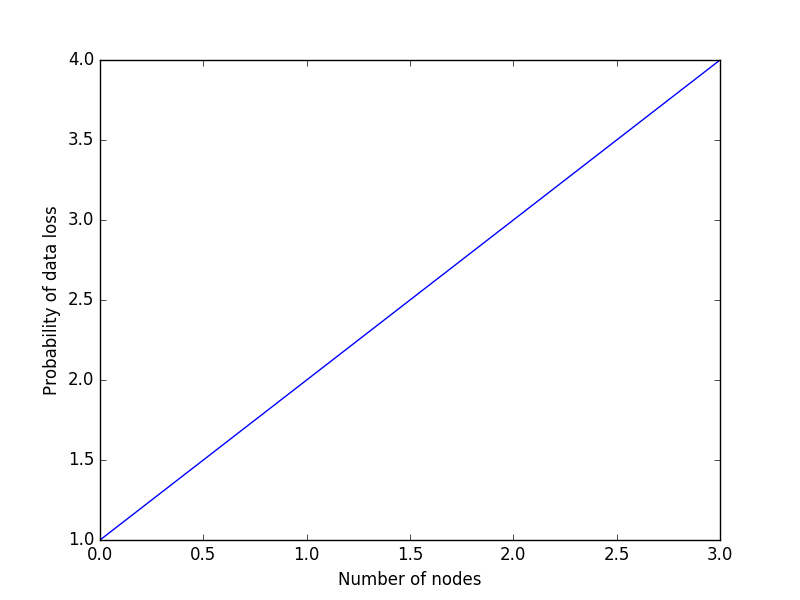
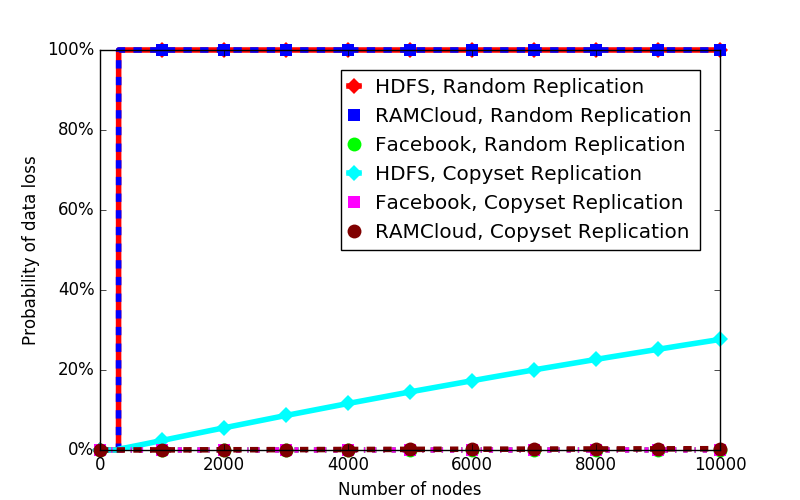
Added matplotlib figure generation code

diff --git a/Main.py b/Main.py
@@ -22,24 +22,27 @@ def runFigure6Experiment(rf=3, maxNodes=10000):
       Ramcloud.RamcloudRandomScheme(**replicationKwargs),
       Facebook.FacebookRandomScheme(**replicationKwargs),
       Hdfs.HdfsCopysetScheme(**replicationKwargs),
-      Ramcloud.RamcloudCopysetScheme(**replicationKwargs),
       Facebook.FacebookCopysetScheme(**replicationKwargs),
+      Ramcloud.RamcloudCopysetScheme(**replicationKwargs),
    ]
    data = {}
    for scheme in replicationSchemes:
       results = []
+      for numNodes in range(minNodes):
+         # add initial (0, 0) datapoints below minimum number of nodes
+         results.append((0, 0))
       for numNodes in range(minNodes, maxNodes + 1):
          results.append((numNodes, scheme.probabilityOfDataLoss(numNodes)))
       data[type(scheme).__name__] = results
 
    # generate the figure
-   schemeNames = [(type(scheme).__name__, scheme.name())
-                  for scheme in replicationSchemes]
+   schemePlotInfos = [(type(scheme).__name__, scheme.plotInfo())
+                       for scheme in replicationSchemes]
 
-   generateDiagram(schemeNames, data)
-   generateFigure6(schemeNames, data)
+   generateDiagram(schemePlotInfos, data)
+   generateFigure6(schemePlotInfos, data)
 
-def generateDiagram(schemeNames, data, groupSize=None):
+def generateDiagram(schemePlotInfos, data, groupSize=None):
    if groupSize is None:
       groupSize = GROUP_SIZE
    def outputDataPoints(dataPoints):
@@ -53,7 +56,8 @@ def generateDiagram(schemeNames, data, groupSize=None):
              (firstN, lastN, avg, std))
 
    # print average probabilities for groups of data points
-   for key, schemeName in schemeNames:
+   for key, schemePlotInfo in schemePlotInfos:
+      schemeName = schemePlotInfo.label
       print 'Scheme: %s' % schemeName
       dataPoints = []
       for numNodes, prob in data[key]:
@@ -66,12 +70,34 @@ def generateDiagram(schemeNames, data, groupSize=None):
          outputDataPoints(dataPoints)
       print ''
 
-def generateFigure6(schemeNames, data):
-   # TODO: generate Figure 6 plot
-   # TODO: use the scheme names to generate the figure key in correct order
-   plt.plot([1,2,3,4])
+def generateFigure6(schemePlotInfos, data):
+   # set dimensions
+   plt.figure(figsize=(8, 5))
+
+   # add data
+   for key, schemePlotInfo in schemePlotInfos:
+      spi = schemePlotInfo
+      x, y = zip(*data[key])
+      plt.plot(x, y, label=spi.label, linestyle=spi.linestyle,
+               linewidth=spi.linewidth, marker=spi.marker,
+               markevery=spi.markevery, markersize=spi.markersize,
+               markeredgewidth=spi.markeredgewidth,
+               color=spi.color, clip_on=spi.clip_on)
+
+   # add legend
+   plt.legend(numpoints=1, handlelength=0.5, borderaxespad=1.0)
+
+   # set x-axis
    plt.xlabel('Number of nodes')
+
+   # set y-axis
    plt.ylabel('Probability of data loss')
+   yticksRange = np.arange(0.0, 1.0 + 0.1, 0.2)
+   plt.yticks(yticksRange)
+   ax = plt.gca()
+   ax.set_yticklabels(['{:,.0%}'.format(tick) for tick in yticksRange])
+
+   # save figure
    plt.savefig('Figure6.png')
 
 if __name__ == '__main__':

diff --git a/Ramcloud.py b/Ramcloud.py
@@ -12,8 +12,9 @@ class RamcloudRandomScheme(RamcloudScheme):
       return self.randomReplicationDataLoss(
          numNodes, self.chunksPerNode, self.replicationFactor)
 
-   def name(self):
-      return 'RAMCloud, Random Replication'
+   def plotInfo(self):
+      return Replication.PlotInfo('RAMCloud, Random Replication',
+                                  linestyle='--', marker='s', color='blue')
 
 class RamcloudCopysetScheme(RamcloudScheme):
    def probabilityOfDataLoss(self, numNodes):
@@ -26,5 +27,7 @@ class RamcloudCopysetScheme(RamcloudScheme):
       return self.copysetReplicationDataLoss(
          numNodes, self.chunksPerNode, self.replicationFactor, scatterWidth)
 
-   def name(self):
-      return 'RAMCloud, Copyset Replication'
+   def plotInfo(self):
+      return Replication.PlotInfo('RAMCloud, Copyset Replication',
+                                  linestyle='--', marker='o', markersize=10,
+                                  color='maroon')

diff --git a/Replication.py b/Replication.py
@@ -8,7 +8,7 @@ class ReplicationScheme(object):
    def probabilityOfDataLoss(self, numNodes):
       raise NotImplementedError
 
-   def name(self):
+   def plotInfo(self):
       raise NotImplementedError
 
    @staticmethod
@@ -35,3 +35,17 @@ class ReplicationScheme(object):
       probOfDataLoss = 1.0 - (1.0 - numCopysets / totalCopysets) ** failedCombos
 
       return probOfDataLoss
+
+class PlotInfo(object):
+   def __init__(self, label, linestyle='-', linewidth=4, marker='o',
+                markevery=1000, markersize=8, markeredgewidth=0.0,
+                color='blue', clip_on=False):
+      self.label = label
+      self.linestyle = linestyle
+      self.linewidth = linewidth
+      self.marker = marker
+      self.markevery = markevery
+      self.markersize = markersize
+      self.markeredgewidth = markeredgewidth
+      self.color = color
+      self.clip_on = clip_on

diff --git a/Hdfs.py b/Hdfs.py
@@ -12,13 +12,15 @@ class HdfsRandomScheme(HdfsScheme):
       return self.randomReplicationDataLoss(
          numNodes, self.chunksPerNode, self.replicationFactor)
 
-   def name(self):
-      return 'HDFS, Random Replication'
+   def plotInfo(self):
+      return Replication.PlotInfo('HDFS, Random Replication',
+                                  linestyle='-', marker='D', color='red')
 
 class HdfsCopysetScheme(HdfsScheme):
    def probabilityOfDataLoss(self, numNodes):
       return self.copysetReplicationDataLoss(
          numNodes, self.chunksPerNode, self.replicationFactor, self.scatterWidth)
 
-   def name(self):
-      return 'HDFS, Copyset Replication'
+   def plotInfo(self):
+      return Replication.PlotInfo('HDFS, Copyset Replication',
+                                  linestyle='-', marker='D', color='aqua')

diff --git a/Facebook.py b/Facebook.py
@@ -12,13 +12,16 @@ class FacebookRandomScheme(FacebookScheme):
       # TODO
       return 0
 
-   def name(self):
-      return 'Facebook, Random Replication'
+   def plotInfo(self):
+      return Replication.PlotInfo('Facebook, Random Replication',
+                                  linestyle='-.', marker='o', markersize=10,
+                                  color='lime')
 
 class FacebookCopysetScheme(FacebookScheme):
    def probabilityOfDataLoss(self, numNodes):
       # TODO
       return 0
 
-   def name(self):
-      return 'Facebook, Copyset Replication'
+   def plotInfo(self):
+      return Replication.PlotInfo('Facebook, Copyset Replication',
+                                  linestyle='-.', marker='s', color='fuchsia')
